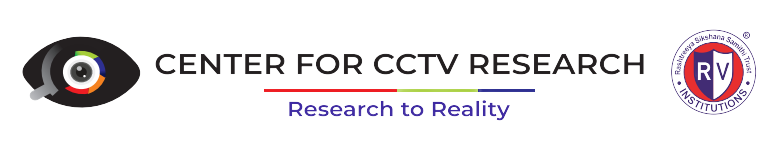
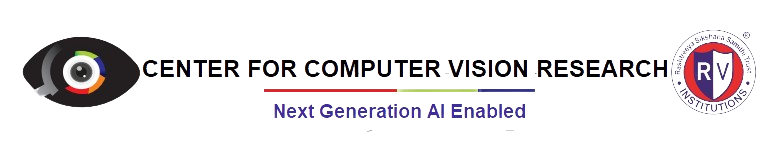
Added website name

diff --git a/src/data/data.js b/src/data/data.js
@@ -152,34 +152,28 @@ export const teams = [
 		TeamName: 'Academia Team',
 		TeamMembers: [
 			{
-				name: 'Dr. Surbhi Mathur, NFSU',
+				name: 'Dr. Pratiba D, RVCE',
 				designation: 'Member',
-				img: 'assets/cctv_team/Dr.Surbhi Mathur.jpg',
+				img: 'assets/cctv_team/default.png',
 				link: 'https://www.nfsu.ac.in/faculty/dr.-surbhi-mathur'
 			},
 			{
-				name: 'Dr. Hemavathy R, RVCE',
+				name: 'Dr. Pavithra H, RVCE',
 				designation: 'Member',
-				img: 'assets/cctv_team/R HEMAVATHY.jpg',
+				img: 'assets/cctv_team/default.png',
 				link: 'https://rvce.edu.in/cs-hemavathy'
 			},
 			{
-				name: 'Dr. Nagraj Bhat, RVCE',
+				name: 'Dr. Mohana, RVCE',
 				designation: 'Member',
-				img: 'assets/cctv_team/Nagaraj_Bhat.png',
+				img: 'assets/cctv_team/default.png',
 				link: 'https://rvce.edu.in/ec-nagarajbhat'
 			},
 			{
-				name: 'Ms. Neethu S, RVCE',
+				name: 'Dr. Veena Devi (ECE), RVCE',
 				designation: 'Member',
-				img: 'assets/cctv_team/Neethu S - Copy.jpg',
+				img: 'assets/cctv_team/default.png',
 				link: 'https://rvce.edu.in/tc-neethu'
-			},
-			{
-				name: 'Dr. Poornima Kulkarni, RVCE',
-				designation: 'Member',
-				img: 'assets/cctv_team/Poornima Kulkarni.jpg',
-				link: 'https://rvce.edu.in/ise-pk'
 			}
 		]
 	},
@@ -343,9 +337,9 @@ export const webinars_2021 = [
 	{
 		title: 'Forensic Analysis of CCTV/Video evidence',
 		description: [
-			'Talk 1: Objectives of Center for CCTV Research Sanjay Sahay, IPS (Retd.) Founder & Mentor Center for CCTV Research',
+			'Talk 1: Objectives of Center for Computer Vision Research Sanjay Sahay, IPS (Retd.) Founder & Mentor Center for Computer Vision Research',
 			'Talk 2: Forensic analysis of CCTV/Video evidence Dr. Surbhi Mathur Sr. Asst. Prof. NFSU, Gujarat',
-			'Moderator Ms. Rashmi H. Coordinator, Center for CCTV Research'
+			'Moderator Ms. Rashmi H. Coordinator, Center for Computer Vision Research'
 		],
 		link: 'assets/Posters/Webinars/Series 2021 -Webinar 1.pdf',
 		speaker_img: [

diff --git a/src/routes/aboutus.svelte b/src/routes/aboutus.svelte
@@ -11,16 +11,16 @@
 	style="background-image: url('assets/bg.png'); background-size: contain;"
 >
 	<article class="prose-base lg:prose-xl max-w-7xl mx-auto p-4 text-gray-900">
-		<h2 class="text-orange-700">About Center for CCTV Research</h2>
+		<h2 class="text-orange-700">About Center for Computer Vision Research</h2>
 
 		<img
 			src="assets/photos/CCTV lab Entrance.JPG"
 			alt=""
 			class="md:w-[50%] h-auto rounded-md mx-auto pb-0	"
 		/>
-		<p class="text-center font-bold">The Center for CCTV Research</p>
+		<p class="text-center font-bold">The Center for Computer Vision Research</p>
 		<p class="py-3">
-			The Center for CCTV Research, located at Bengaluru’s prestigious RV College of Engineering
+			The Center for Computer Vision Research, located at Bengaluru’s prestigious RV College of Engineering
 			campus has been created with the intention of being the catalyst to bridge the wide gap
 			between the industry and creation & execution of humongous CCTV projects in the country. The
 			Center aims to fulfill the gap of knowledge, practice, protocols, testing, experiments,

diff --git a/src/components/Footer.svelte b/src/components/Footer.svelte
@@ -1,7 +1,7 @@
 <footer class="footer p-10 bg-base-200 text-base-content">
 	<div class="pt-[2rem]">
 		<!-- <img class="w-[20%]" src="assets/CCTV_eye.jpeg" alt="CCTVR logo"/> -->
-		<p>CENTER FOR CCTV RESEARCH<br />Research to Reality</p>
+		<p>CENTER FOR COMPUTER VISION RESEARCH<br />Next Generation AI Enabled</p>
 		<div class="grid grid-flow-col gap-4">
 			<a href="https://twitter.com/?lang=en" target="_blank"
 				><svg
@@ -45,7 +45,7 @@
 	<div>
 		<span class="footer-title">Address</span>
 		<div class="">
-			<p class="">CENTER FOR CCTV RESEARCH</p>
+			<p class="">CENTER FOR COMPUTER VISION RESEARCH</p>
 			<p>RV COLLEGE OF ENGINEERING CAMPUS</p>
 			<p>Mysore Road, RV Vidyaniketan, Post</p>
 			<p>Bengaluru, Karnataka 560059</p>

diff --git a/src/routes/index.svelte b/src/routes/index.svelte
@@ -54,8 +54,8 @@
 	<div class="py-2 lg:py-5  radius-for-skewed">
 		<div class="container mx-auto px-5">
 			<div class="mb-7 mx-auto flex justify-center">
-				<!-- <h2 class="text-4xl md:text-5xl font-bold">Center for CCTV Research</h2> bg gray
-				<span class="text-black-600 text-3xl font-bold">Research to Reality</span> -->
+				<!-- <h2 class="text-4xl md:text-5xl font-bold">Center for Computer Vision Research</h2> bg gray
+				<span class="text-black-600 text-3xl font-bold">Next Generation AI Enabled</span> -->
 				<img src="assets/text_img.PNG" alt="text" class="w-[70%]" />
 			</div>
 			<div class="w-[100%] flex flex-col md:flex-row space-x-7">

diff --git a/src/routes/test/tst.svelte b/src/routes/test/tst.svelte
@@ -25,8 +25,8 @@
 	<div class="py-2 lg:py-5 bg-gray-50 radius-for-skewed">
 		<div class="container mx-auto px-4">
 			<div class="mb-16 mx-auto text-center">
-				<h2 class="text-4xl md:text-5xl font-bold">Center for CCTV Research</h2>
-				<span class="text-orange-600 text-3xl font-bold">Research to Reality</span>
+				<h2 class="text-4xl md:text-5xl font-bold">Center for Computer Vision Research</h2>
+				<span class="text-orange-600 text-3xl font-bold">Next Generation AI Enabled</span>
 			</div>
 
 			<div class="flex flex-wrap -mx-4">

diff --git a/src/routes/gallery.svelte b/src/routes/gallery.svelte
@@ -75,7 +75,7 @@
 				>
 					<img src="assets/images/img1.jpg" alt="" class="mx-auto" />
 					<p class="font-bold text-black mx-auto text-center ">
-						Inaguration of the Center for CCTV Research, 4th February, 2021 by the Chief Guest Dr.
+						Inaguration of the Center for Computer Vision Research, 4th February, 2021 by the Chief Guest Dr.
 						M.K Panduranga Setty
 					</p>
 				</div>
